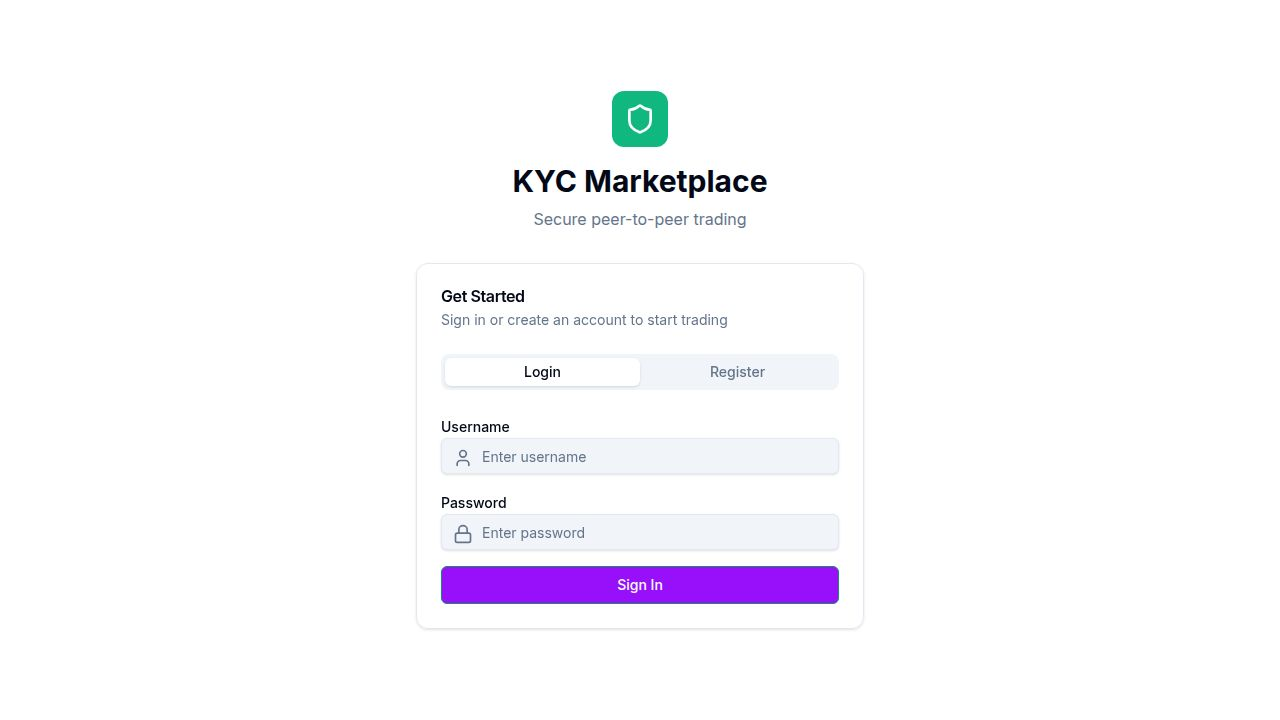
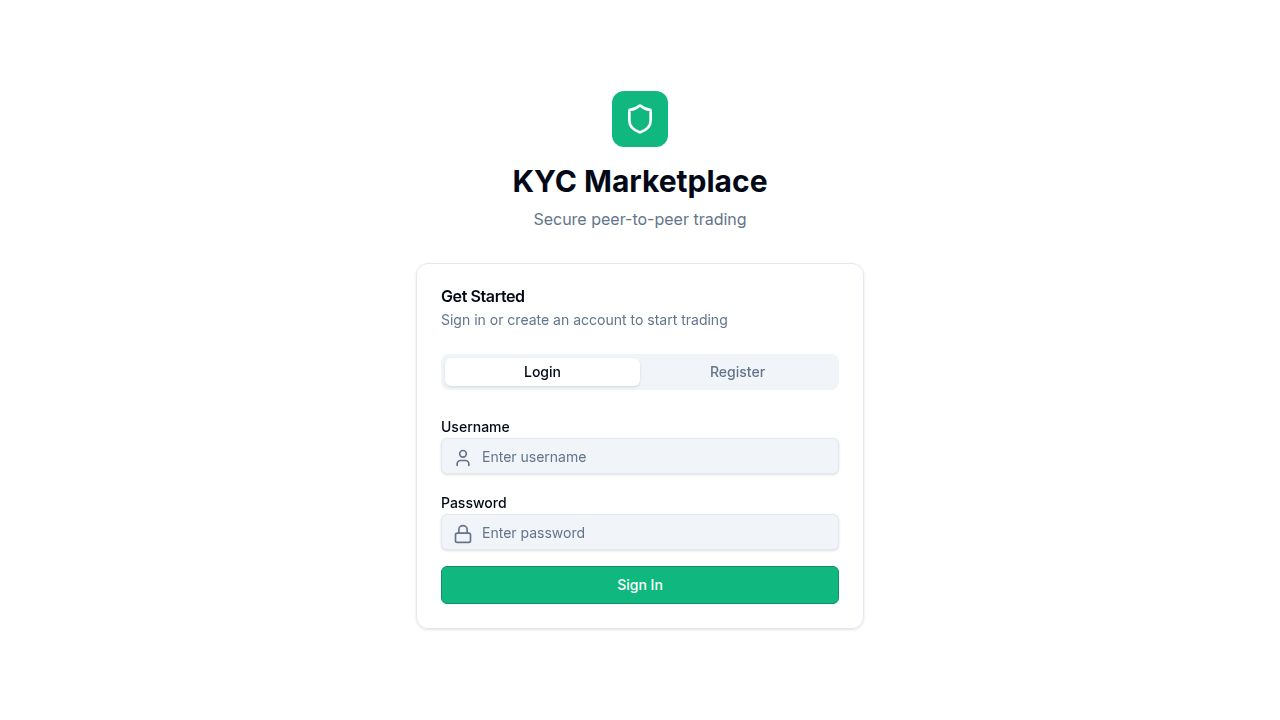
Update authentication page to respect light and dark modes
Replace hardcoded colors with semantic theme classes in AuthPage.tsx for proper light/dark mode support.

Replit-Commit-Author: Agent
Replit-Commit-Session-Id: af9ccbf6-38f0-4866-a2f4-2ad6b353df58
Replit-Commit-Checkpoint-Type: full_checkpoint
Replit-Commit-Event-Id: 071742e0-2a48-46cd-a14c-ce80db493547
Replit-Commit-Screenshot-Url: https://storage.googleapis.com/screenshot-production-us-central1/f07e5f35-ab6a-4580-a9a8-8fe98cfa965a/af9ccbf6-38f0-4866-a2f4-2ad6b353df58/qkL4orA
Replit-Helium-Checkpoint-Created: true

Changed region(s): [[0.3438, 0.7639, 0.6562, 0.8556]]

diff --git a/client/src/pages/AuthPage.tsx b/client/src/pages/AuthPage.tsx
@@ -131,12 +131,12 @@ export default function AuthPage() {
                   </div>
                   {requires2FA && (
                     <div className="space-y-2">
-                      <Label htmlFor="2fa-token" className="text-gray-300">2FA Code</Label>
+                      <Label htmlFor="2fa-token" className="text-foreground">2FA Code</Label>
                       <Input
                         id="2fa-token"
                         data-testid="input-2fa-token"
                         placeholder="Enter 6-digit code"
-                        className="bg-gray-800 border-gray-700 text-white text-center text-lg tracking-widest"
+                        className="bg-muted border-border text-foreground text-center text-lg tracking-widest"
                         maxLength={6}
                         value={loginForm.twoFactorToken}
                         onChange={(e) => setLoginForm({ ...loginForm, twoFactorToken: e.target.value })}
@@ -146,7 +146,7 @@ export default function AuthPage() {
                   <Button
                     type="submit"
                     data-testid="button-login"
-                    className="w-full bg-purple-600 hover:bg-purple-700"
+                    className="w-full"
                     disabled={loginMutation.isPending}
                   >
                     {loginMutation.isPending ? "Signing in..." : "Sign In"}
@@ -163,44 +163,44 @@ export default function AuthPage() {
                   className="space-y-4"
                 >
                   <div className="space-y-2">
-                    <Label htmlFor="register-username" className="text-gray-300">Username</Label>
+                    <Label htmlFor="register-username" className="text-foreground">Username</Label>
                     <div className="relative">
-                      <User className="absolute left-3 top-2.5 h-5 w-5 text-gray-500" />
+                      <User className="absolute left-3 top-2.5 h-5 w-5 text-muted-foreground" />
                       <Input
                         id="register-username"
                         data-testid="input-register-username"
                         placeholder="Choose username"
-                        className="pl-10 bg-gray-800 border-gray-700 text-white"
+                        className="pl-10 bg-muted border-border text-foreground"
                         value={registerForm.username}
                         onChange={(e) => setRegisterForm({ ...registerForm, username: e.target.value })}
                       />
                     </div>
                   </div>
                   <div className="space-y-2">
-                    <Label htmlFor="register-email" className="text-gray-300">Email</Label>
+                    <Label htmlFor="register-email" className="text-foreground">Email</Label>
                     <div className="relative">
-                      <Mail className="absolute left-3 top-2.5 h-5 w-5 text-gray-500" />
+                      <Mail className="absolute left-3 top-2.5 h-5 w-5 text-muted-foreground" />
                       <Input
                         id="register-email"
                         data-testid="input-register-email"
                         type="email"
                         placeholder="Enter email"
-                        className="pl-10 bg-gray-800 border-gray-700 text-white"
+                        className="pl-10 bg-muted border-border text-foreground"
                         value={registerForm.email}
                         onChange={(e) => setRegisterForm({ ...registerForm, email: e.target.value })}
                       />
                     </div>
                   </div>
                   <div className="space-y-2">
-                    <Label htmlFor="register-password" className="text-gray-300">Password</Label>
+                    <Label htmlFor="register-password" className="text-foreground">Password</Label>
                     <div className="relative">
-                      <Lock className="absolute left-3 top-2.5 h-5 w-5 text-gray-500" />
+                      <Lock className="absolute left-3 top-2.5 h-5 w-5 text-muted-foreground" />
                       <Input
                         id="register-password"
                         data-testid="input-register-password"
                         type="password"
                         placeholder="Create password"
-                        className="pl-10 bg-gray-800 border-gray-700 text-white"
+                        className="pl-10 bg-muted border-border text-foreground"
                         value={registerForm.password}
                         onChange={(e) => setRegisterForm({ ...registerForm, password: e.target.value })}
                       />
@@ -209,7 +209,7 @@ export default function AuthPage() {
                   <Button
                     type="submit"
                     data-testid="button-register"
-                    className="w-full bg-purple-600 hover:bg-purple-700"
+                    className="w-full"
                     disabled={registerMutation.isPending}
                   >
                     {registerMutation.isPending ? "Creating account..." : "Create Account"}
